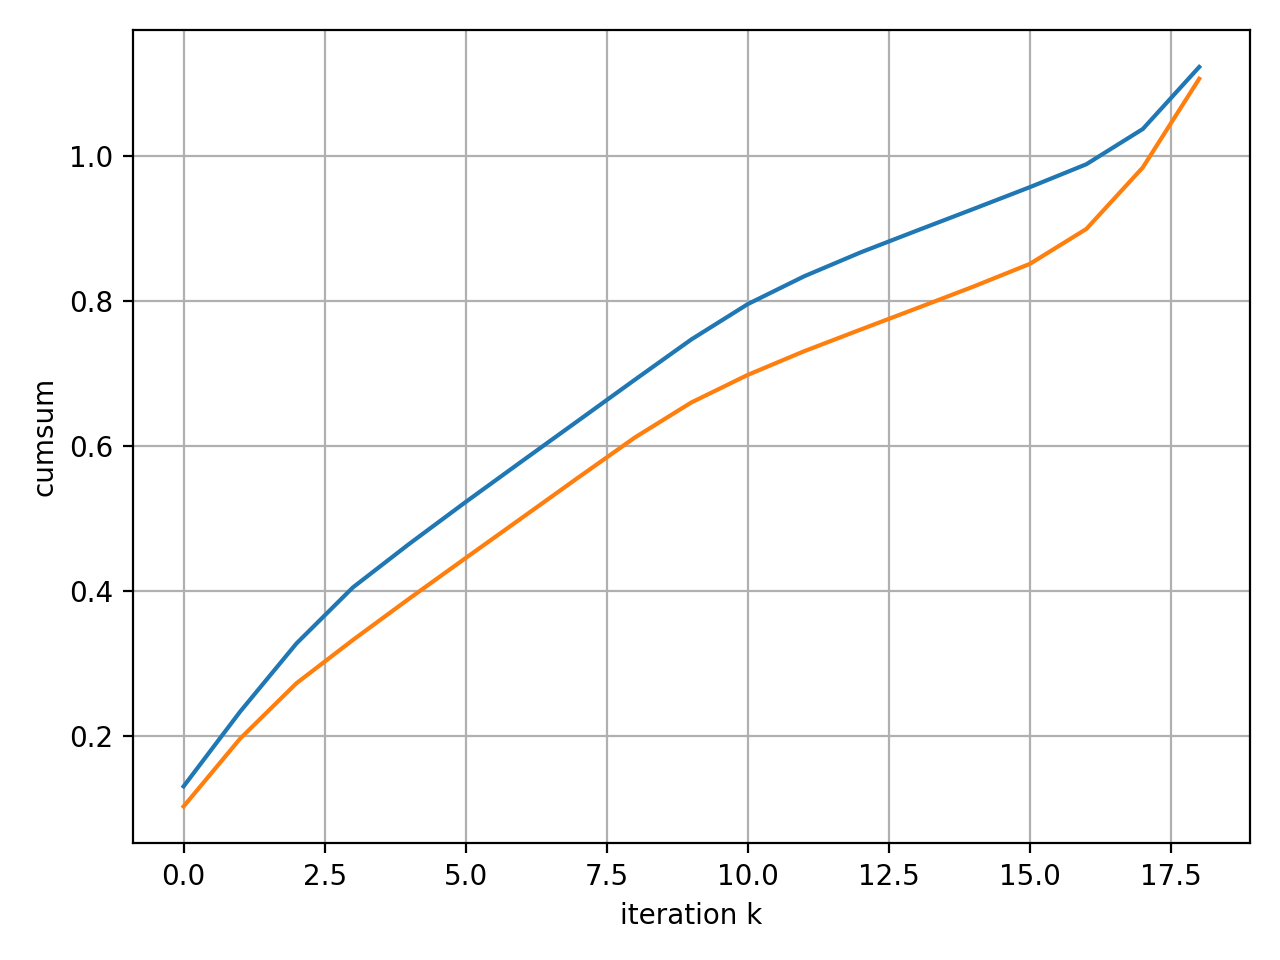
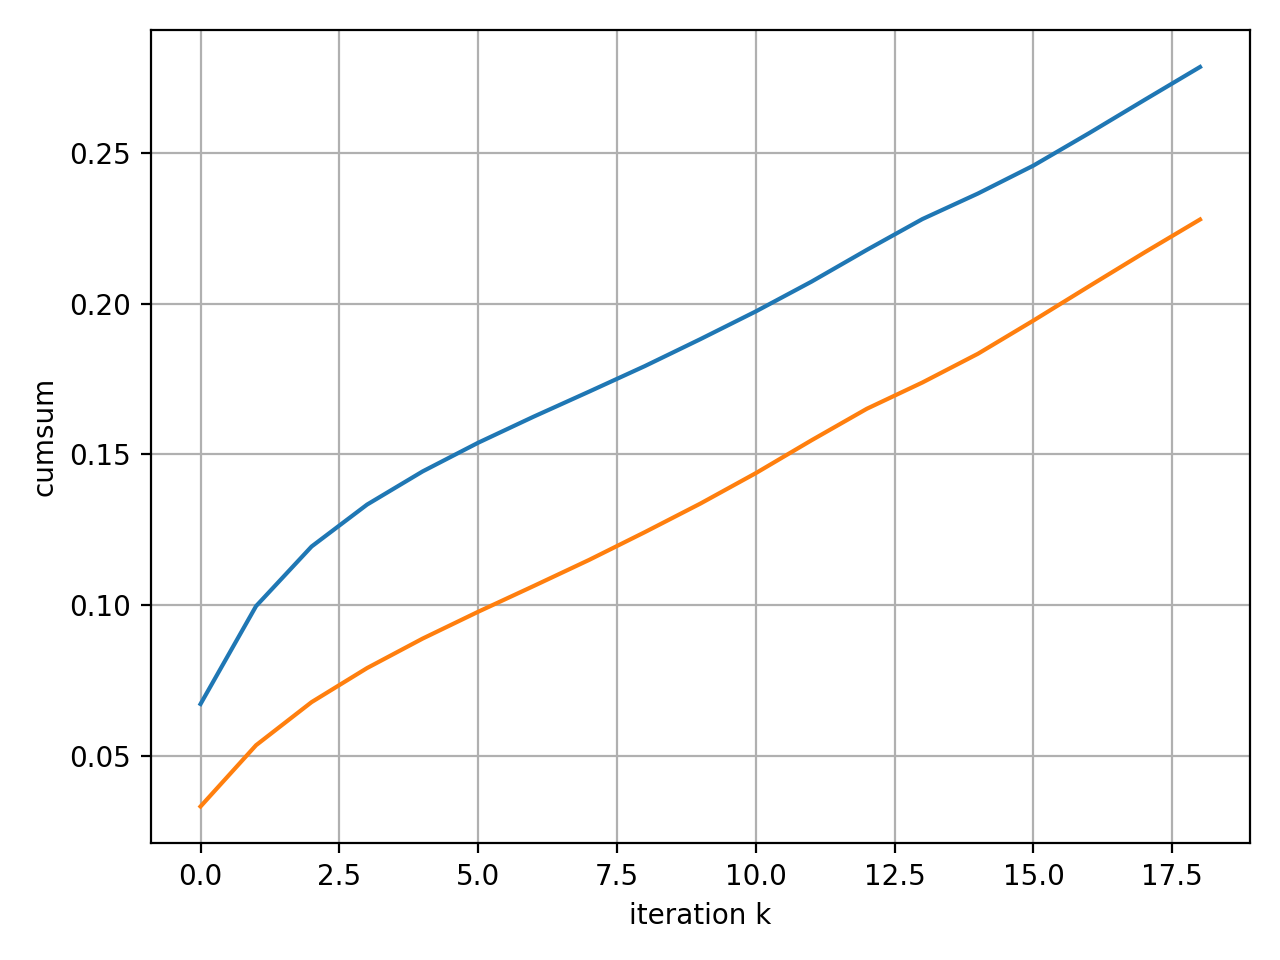
Création benchmark 10 images

diff --git a/IRCNN_sigmamap/IRCNN_sigmamap_denoise.py b/IRCNN_sigmamap/IRCNN_sigmamap_denoise.py
@@ -7,6 +7,7 @@ import torchvision.transforms.functional as TF
 import torch.nn.functional as F
 from torchmetrics.functional.image.ssim import structural_similarity_index_measure as ssim_fn
 from typing import Optional, Tuple, Dict, List
+from pool_images_test.generate_pool_images import load_paths_from_file
 
 def psnr_torch(x, y, eps=1e-8):
     mse = torch.mean((x - y) ** 2).item()
@@ -125,14 +126,16 @@ def benchmark_ircnn_sigmap(
     os.makedirs(out_dir, exist_ok=True)
     model, device = load_ircnn(ckpt_path)
 
-    all_paths = list_images(test_dir)
+    '''all_paths = list_images(test_dir)
     if len(all_paths) == 0:
         raise RuntimeError(f"Aucune image trouvée dans {test_dir}")
     if len(all_paths) < n_images:
         raise RuntimeError(f"Pas assez d'images: {len(all_paths)} < {n_images}")
 
     rng = random.Random(seed)
-    chosen = rng.sample(all_paths, n_images)
+    chosen = rng.sample(all_paths, n_images)'''
+    
+    chosen = load_paths_from_file("./pool_images_test/benchmark_10_images.txt")
 
     rows = []
     for i, path in enumerate(chosen):
@@ -205,5 +208,5 @@ def benchmark_ircnn_sigmap(
 
 
 if __name__ == "__main__":
-    benchmark_ircnn_sigmap(test_dir="./BSDS300/images/test", ckpt_path="./weights_ircnn_sigmap/ircnn_sigmap_final.pth", out_dir="results_IRCNN_sigmamap/denoise_benchmark", sigma=20.0, n_images=10, seed=0, save_examples=False)
+    benchmark_ircnn_sigmap(test_dir="./BSDS300/images/test", ckpt_path="./weights_ircnn_sigmap/ircnn_sigmap_final.pth", out_dir="results_IRCNN_sigmamap/denoise_benchmark_v2", sigma=20.0, n_images=10, seed=0, save_examples=False)
 

diff --git a/pool_images_test/generate_pool_images.py b/pool_images_test/generate_pool_images.py
@@ -1,0 +1,46 @@
+import random
+from pathlib import Path
+import shutil
+from typing import List, Tuple
+
+def create_benchmark(
+        source_dir: str = "./BSDS300/images/test",
+        out_dir: str = "./pool_images_test/benchmark_10_images",
+        n_images: int = 10,
+        seed: int = 42,
+        exts: Tuple[str, ...] = (".png", ".jpg", ".jpeg")
+) -> List[str]:
+    """
+    Randomly select n_images among training images.
+    """
+    out_path = Path(out_dir)
+    Path(out_dir).mkdir(parents=True, exist_ok=True)
+
+    source_path = Path(source_dir)
+    all_paths = [
+        str(p) for p in source_path.rglob("*") 
+        if p.is_file() and p.suffix.lower() in exts
+    ]
+
+    if not all_paths:
+        raise RuntimeError(f"No image found in '{source_dir}'.")
+    if len(all_paths) < n_images:
+        raise RuntimeError(f"Not enough images : {len(all_paths)} found, {n_images} asked.")
+
+    rng = random.Random(seed)
+    chosen_paths = rng.sample(all_paths, n_images)
+
+    final_paths = []
+    for img_path in chosen_paths:
+        destination = out_path / Path(img_path).name
+        
+        if not destination.exists():
+            shutil.copy2(img_path, destination)
+            
+        final_paths.append(str(destination))
+
+    print(f"{len(final_paths)} images in '{out_path}'.")
+    return final_paths
+
+
+create_benchmark(n_images=10)

diff --git a/IRCNN/IRCNN_inpainting.py b/IRCNN/IRCNN_inpainting.py
@@ -207,7 +207,7 @@ def dpir_hqs_inpaint(
         #mu = rhos_t[k].view(1, 1, 1, 1)
         sigma_k = sigmas[k]
         #print(f"sigma:{sigma_k}")
-        mu = lambda_pnp/ ((255.0*sigma_k)**2)
+        mu = lambda_pnp/ (sigma_k**2)
         # x-step (fermé pixelwise)
         xk = (M3 * y + mu * z) / (M3 + mu)
         xk = xk.clamp(0, 1)

diff --git a/IRCNN_sigmamap/IRCNN_sigmamap_inpainting.py b/IRCNN_sigmamap/IRCNN_sigmamap_inpainting.py
@@ -228,7 +228,7 @@ def dpir_hqs_inpaint(
             metrics["ssim_x"][k] = ssim_torch(xk, gt)
 
         # z-step
-        sigma_k = float(255.0*sigmas[k])
+        sigma_k = float(sigmas[k])
         z = denoise_sigma_map(model_name, model, xk, sigma=sigma_k)
 
         # enforce known pixels
